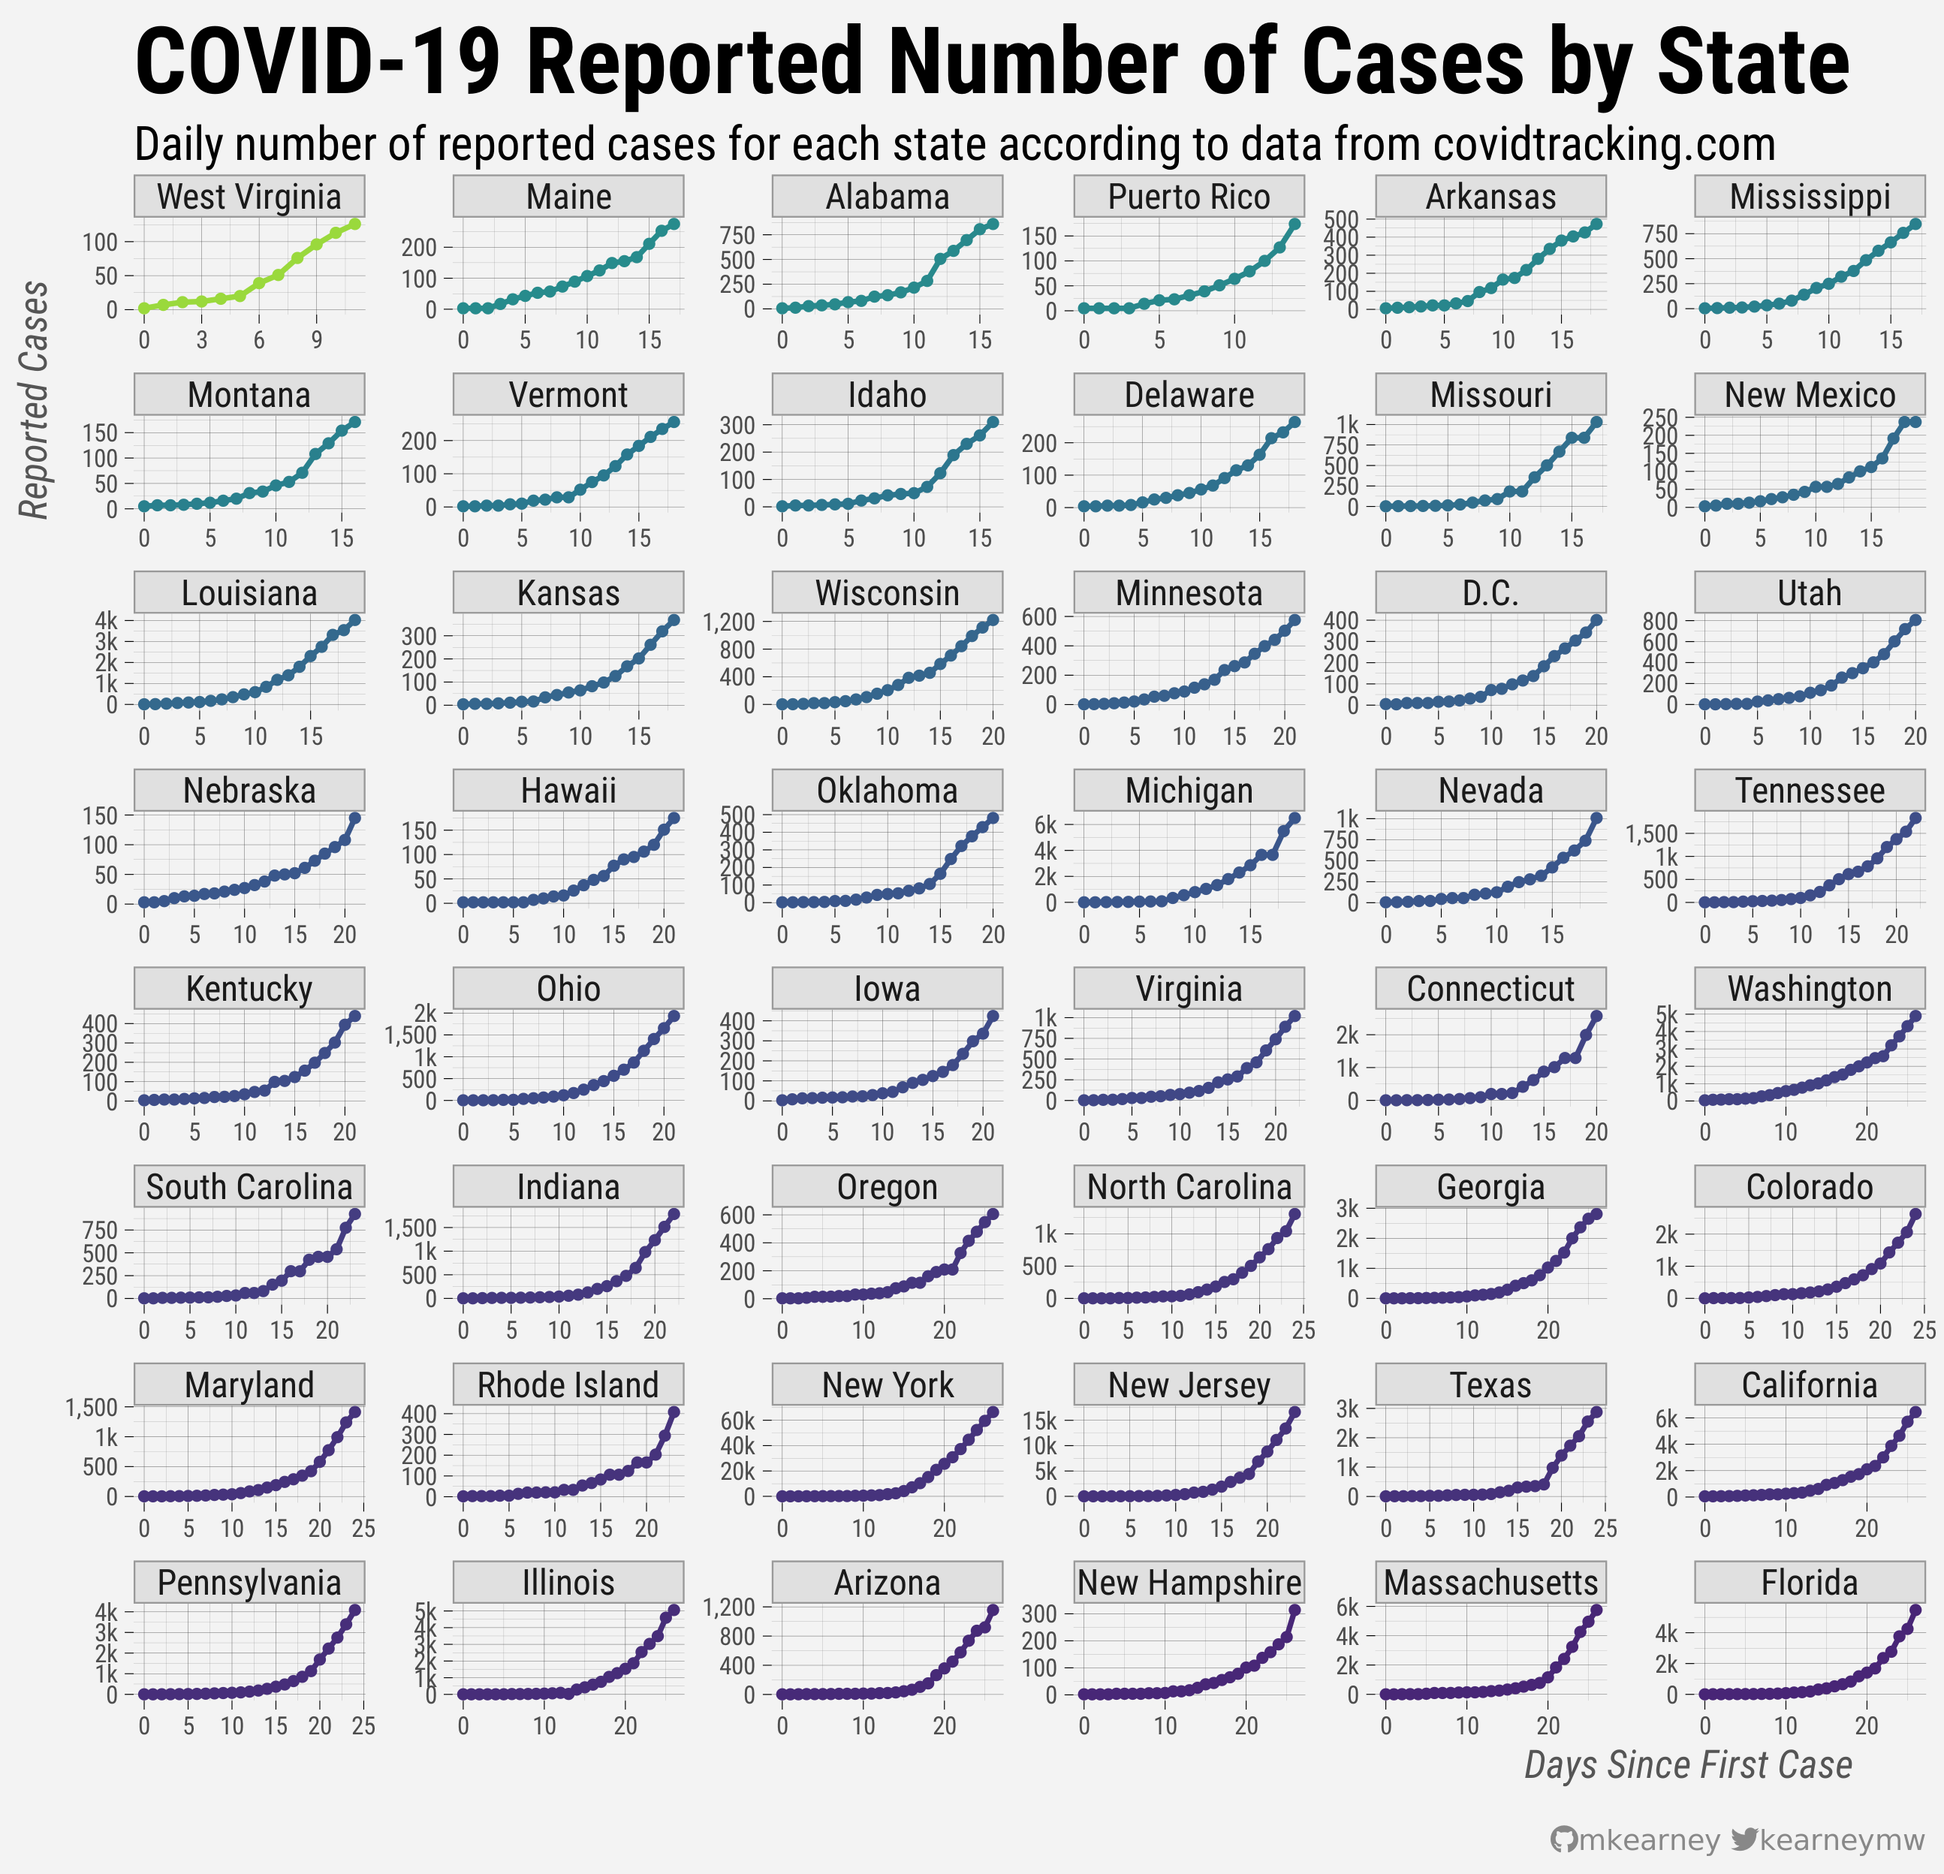
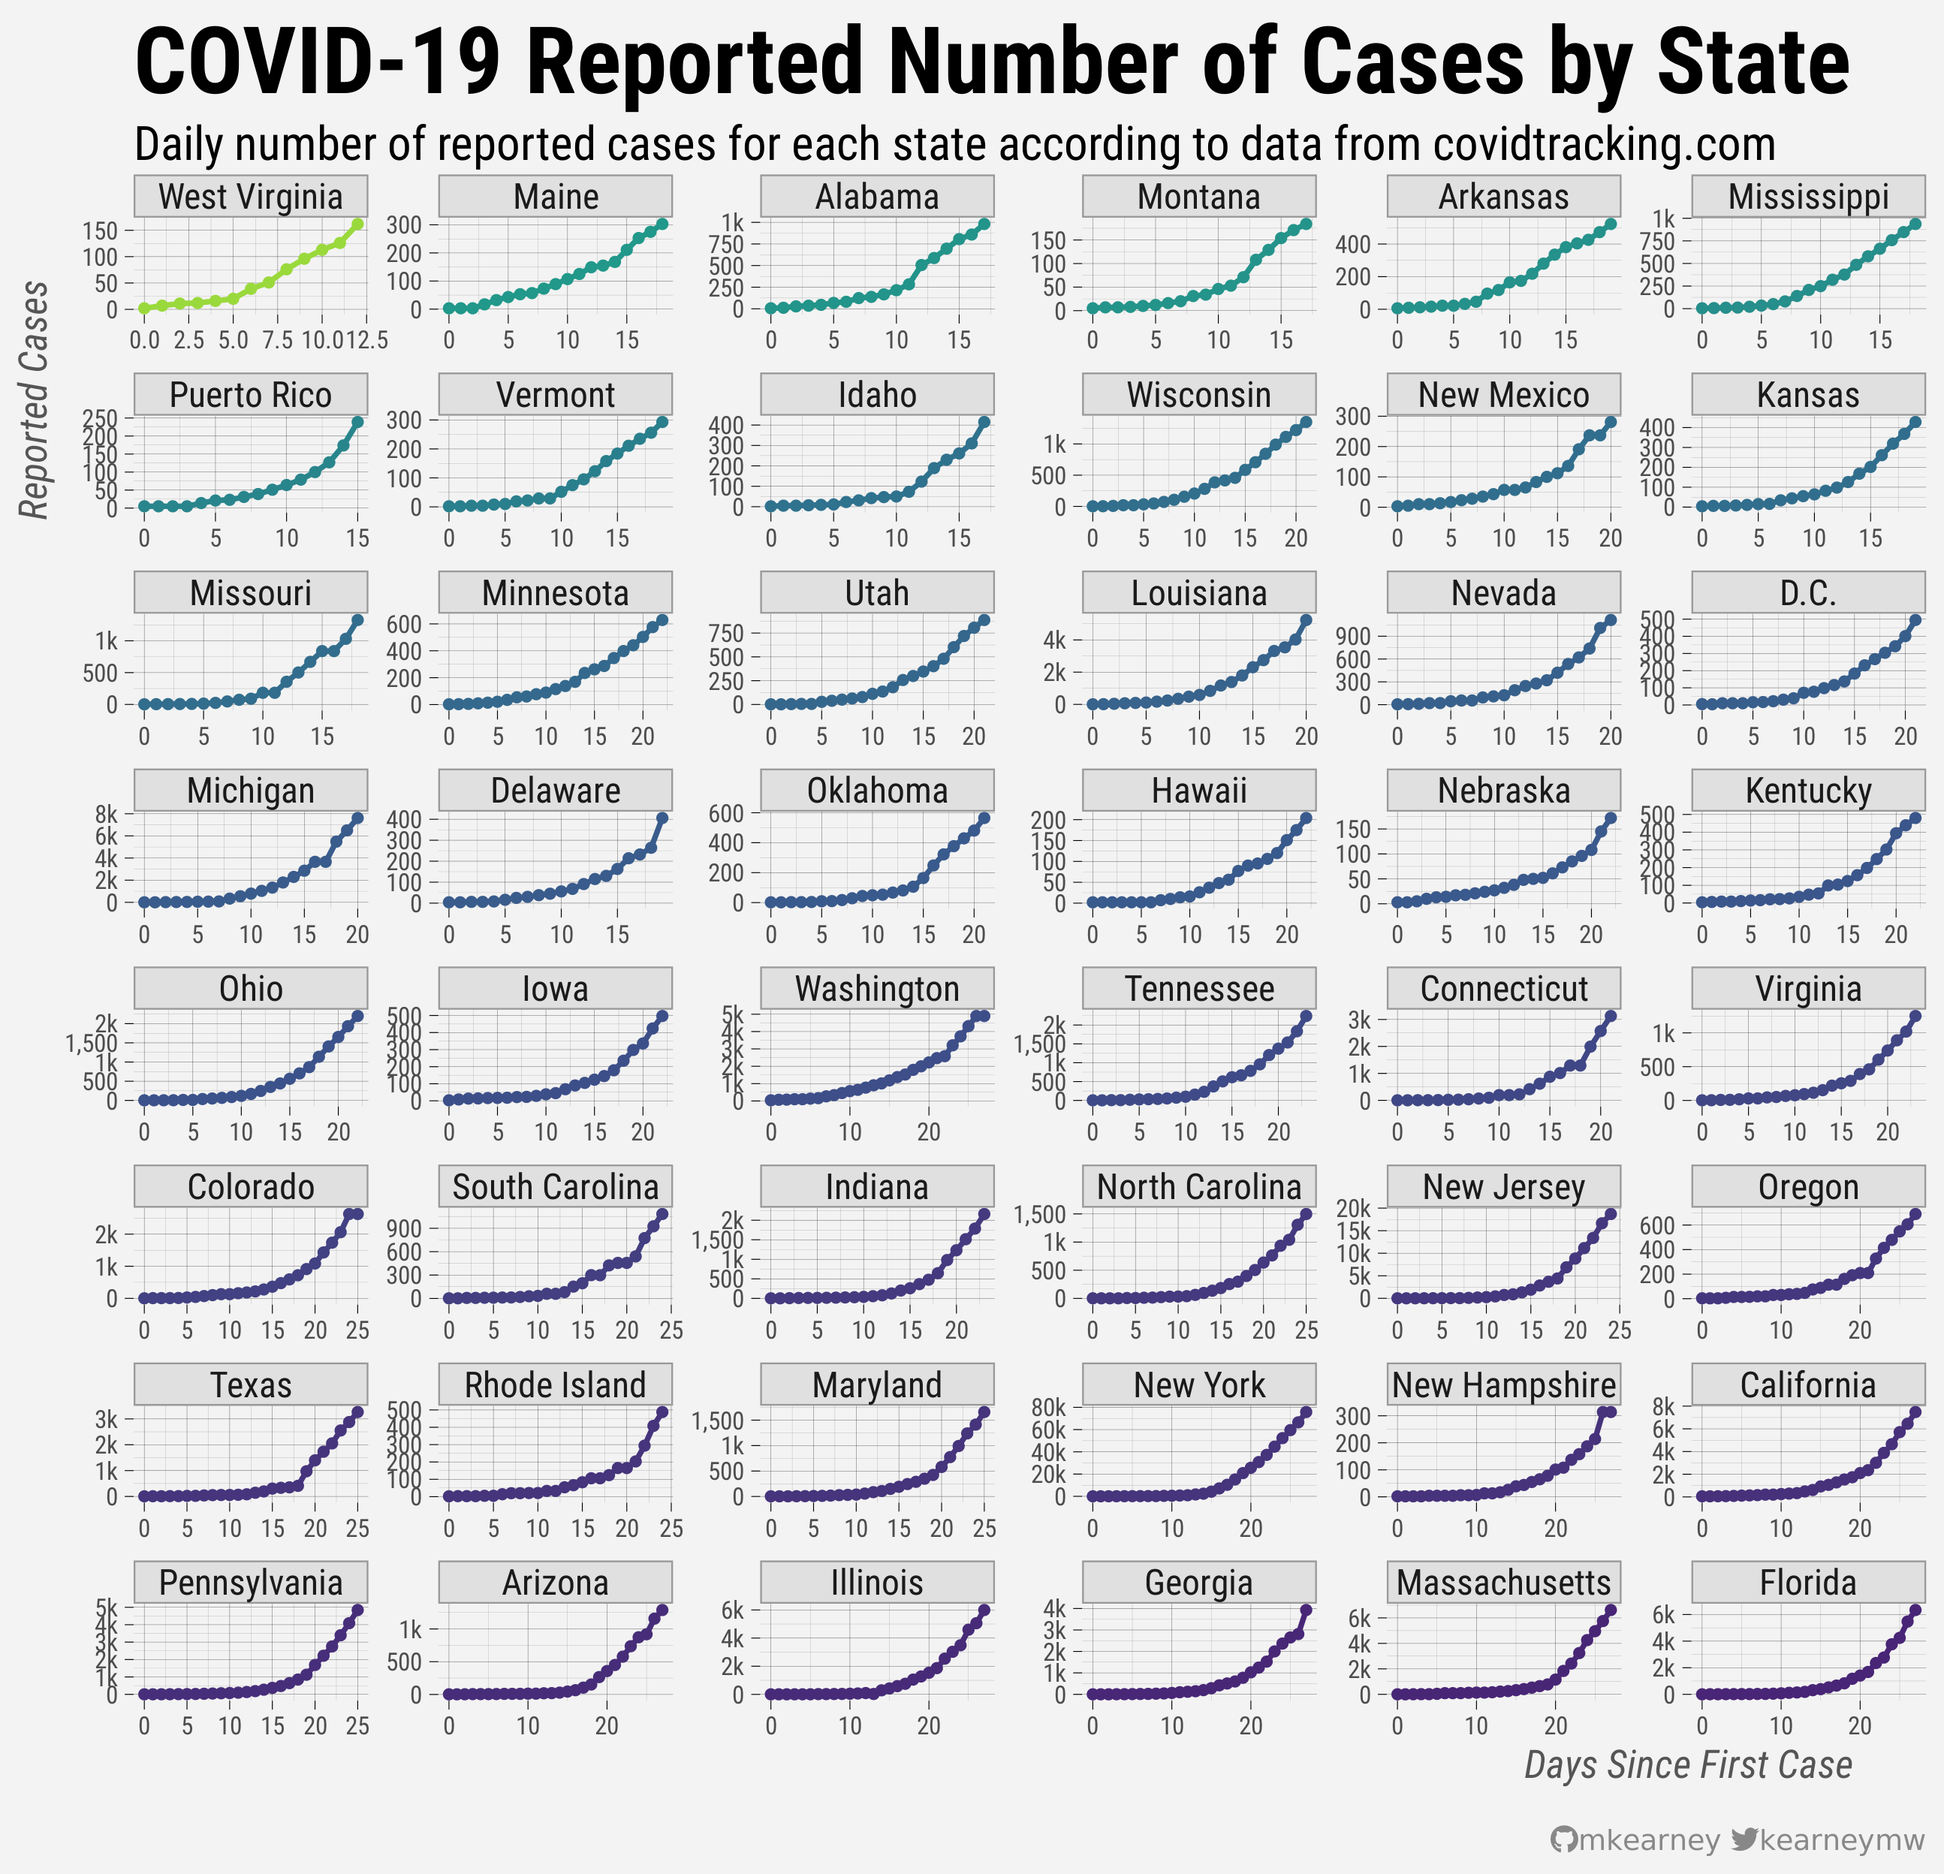
daily cron update

diff --git a/README.md b/README.md
@@ -40,7 +40,7 @@ grouped by similar endpoints and included below.
     #> # A tibble: 1 x 10
     #>   positive negative pos_neg hospitalized death  total hash  last_modified      
     #>      <int>    <int>   <int>        <int> <int>  <int> <chr> <dttm>             
-    #> 1   163565   801300  964865        22617  3012 964865 b3cf… 2020-03-31 20:01:27
+    #> 1   163565   801300  964865        22617  3012 964865 b3cf… 2020-03-31 21:15:25
     #> # … with 2 more variables: notes <chr>, total_test_results <int>
     ```
 
@@ -50,23 +50,21 @@ grouped by similar endpoints and included below.
     
     ``` r
     covid19_us_daily()
-    #> # A tibble: 27 x 21
-    #>    date       states positive negative pending currently_hospi… cumulative_hosp…
-    #>    <date>      <int>    <int>    <int>   <int>            <int>            <int>
-    #>  1 2020-03-30     56   160530   784324   65382            12147             3177
-    #>  2 2020-03-29     56   139061   692290   65549             9922             2642
-    #>  3 2020-03-28     56   118234   617470   65712             8725             2314
-    #>  4 2020-03-27     56    99413   527220   60094             7532             1916
-    #>  5 2020-03-26     56    80735   438603   60251             5441             1412
-    #>  6 2020-03-25     56    63928   357604   51235               96               74
-    #>  7 2020-03-24     56    51954   292758   14433               NA               NA
-    #>  8 2020-03-23     56    42152   237321   14571               NA               NA
-    #>  9 2020-03-22     56    31879   193463    2842               NA               NA
-    #> 10 2020-03-21     56    23197   155909    3477               NA               NA
-    #> # … with 17 more rows, and 14 more variables: currently_in_icu <int>,
-    #> #   currently_on_ventilator <int>, cumulative_on_ventilator <int>,
-    #> #   recovered <int>, deaths <int>, hash <chr>, date_checked <dttm>,
-    #> #   total_test_results <int>, total <int>, death_increase <int>,
+    #> # A tibble: 28 x 17
+    #>    date       states positive negative pos_neg pending hospitalized death  total
+    #>    <date>      <int>    <int>    <int>   <int>   <int>        <int> <int>  <int>
+    #>  1 2020-03-31     56   184770   864201 1048971   59529        26660  3746 1.11e6
+    #>  2 2020-03-30     56   160530   784324  944854   65382        22303  2939 1.01e6
+    #>  3 2020-03-29     56   139061   692290  831351   65549        19730  2428 8.97e5
+    #>  4 2020-03-28     56   118234   617470  735704   65712        16729  1965 8.01e5
+    #>  5 2020-03-27     56    99413   527220  626633   60094        13718  1530 6.87e5
+    #>  6 2020-03-26     56    80735   438603  519338   60251        10131  1163 5.80e5
+    #>  7 2020-03-25     56    63928   357604  421532   51235         6136   900 4.73e5
+    #>  8 2020-03-24     56    51954   292758  344712   14433         4468   675 3.59e5
+    #>  9 2020-03-23     56    42152   237321  279473   14571         3325   471 2.94e5
+    #> 10 2020-03-22     56    31879   193463  225342    2842         2554   398 2.28e5
+    #> # … with 18 more rows, and 8 more variables: hash <chr>, date_checked <dttm>,
+    #> #   total_test_results <int>, death_increase <int>,
     #> #   hospitalized_increase <int>, negative_increase <int>,
     #> #   positive_increase <int>, total_test_results_increase <int>
     ```
@@ -83,15 +81,15 @@ grouped by similar endpoints and included below.
     #>    state positive positive_score negative_score negative_regula…
     #>    <chr>    <int>          <int>          <int>            <int>
     #>  1 AK         119              1              1                1
-    #>  2 AL         949              1              1                0
-    #>  3 AR         508              1              1                1
-    #>  4 AZ        1157              1              1                0
-    #>  5 CA        7398              1              1                1
+    #>  2 AL         981              1              1                0
+    #>  3 AR         523              1              1                1
+    #>  4 AZ        1289              1              1                0
+    #>  5 CA        7482              1              1                1
     #>  6 CO        2627              1              1                1
-    #>  7 CT        2571              1              1                1
+    #>  7 CT        3128              1              1                1
     #>  8 DC         495              1              1                1
-    #>  9 DE         264              1              1                0
-    #> 10 FL        5704              1              1                1
+    #>  9 DE         406              1              1                0
+    #> 10 FL        6338              1              1                1
     #> # … with 46 more rows, and 16 more variables: commercial_score <int>,
     #> #   grade <chr>, score <int>, negative <int>, pending <int>,
     #> #   hospitalized <int>, death <int>, total <int>, last_update_et <chr>,
@@ -105,20 +103,20 @@ grouped by similar endpoints and included below.
     
     ``` r
     covid19_states_daily()
-    #> # A tibble: 1,373 x 17
+    #> # A tibble: 1,429 x 17
     #>    date       state positive negative pending hospitalized death total hash 
     #>    <date>     <chr>    <int>    <int>   <int>        <int> <int> <int> <chr>
-    #>  1 2020-03-30 AK         114     3540      NA            7     3  3654 01a1…
-    #>  2 2020-03-30 AL         859     5694      NA           NA     6  6553 1ced…
-    #>  3 2020-03-30 AR         473     5262      NA           62     7  5735 7199…
-    #>  4 2020-03-30 AS          NA       NA      NA           NA     0     0 955d…
-    #>  5 2020-03-30 AZ        1157    15602      NA           78    20 16759 2f64…
-    #>  6 2020-03-30 CA        6447    20549   64400         1432   133 91396 ae23…
-    #>  7 2020-03-30 CO        2627    12737      NA          414    51 15364 c700…
-    #>  8 2020-03-30 CT        2571    12029      NA          517    36 14600 c7a0…
-    #>  9 2020-03-30 DC         401     2682       2           NA     9  3085 0c35…
-    #> 10 2020-03-30 DE         264     2216      NA           45     6  2480 cd97…
-    #> # … with 1,363 more rows, and 8 more variables: date_checked <dttm>,
+    #>  1 2020-03-31 AK         119     3594      NA            7     3  3713 5339…
+    #>  2 2020-03-31 AL         981     6298      NA           NA    13  7279 06fc…
+    #>  3 2020-03-31 AR         523     5959      NA           64     8  6482 243a…
+    #>  4 2020-03-31 AS          NA        3       2           NA     0     5 dc2e…
+    #>  5 2020-03-31 AZ        1289    18082      NA           78    24 19371 0d03…
+    #>  6 2020-03-31 CA        7482    21772   57400         1617   153 86654 68a2…
+    #>  7 2020-03-31 CO        2627    12737      NA          414    51 15364 853a…
+    #>  8 2020-03-31 CT        3128    13029      NA          608    69 16157 b03c…
+    #>  9 2020-03-31 DC         495     3262       2           NA     9  3759 fd5a…
+    #> 10 2020-03-31 DE         406     3696      NA           64    10  4102 31df…
+    #> # … with 1,419 more rows, and 8 more variables: date_checked <dttm>,
     #> #   total_test_results <int>, fips <chr>, death_increase <int>,
     #> #   hospitalized_increase <int>, negative_increase <int>,
     #> #   positive_increase <int>, total_test_results_increase <int>
